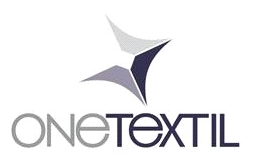
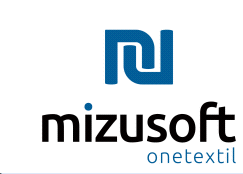
added a rdp pop killer added a check to break the loop if the system tells us that we cant print added a function to only open the rdp window updated the main window indicator image

Changed region(s): [[0.0288, 0.1026, 0.9794, 0.9487], [0.0, 0.9744, 1.0, 1.0]]

diff --git a/main.py b/main.py
@@ -1,6 +1,7 @@
 import time
 import sys
 
+import psutil
 import win32con
 
 import detection
@@ -116,14 +117,27 @@ class MainLoop:
                 ok_button = detection.find_ok_button(self.screenshot.current_npimg)
                 if is_valid_coords(ok_button[0]):
                     winapihelper.mouse_click(self.handle[1], ok_button)
-                    time.sleep(2)
+                    time.sleep(3)
                     self.update_screenshot()
                 else:
                     self.print_order_routine()
 
+                # checks if the systems tells us that theres nothing to be printed
+                check_if_printable = detection.check_if_cannot_print(self.screenshot.current_npimg)
+                if is_valid_coords(check_if_printable[0]):
+                    self.close_popups()
+                    self.finished = True
+                    self.successful = True
+                    return 1
+
+                # press tab, to unselect the file type combobox
+                winapihelper.keyboard_click(self.handle[1], win32con.VK_TAB)
+                time.sleep(.25)
+
                 save_to_file_button = detection.save_to_file_button(self.screenshot.current_npimg)
                 if is_valid_coords(save_to_file_button[0]):
                     winapihelper.mouse_click(self.handle[1], save_to_file_button)
+                    self.close_popups()
                     self.finished = True
                     self.successful = True
                 else:
@@ -143,10 +157,14 @@ class MainLoop:
             # gets the handle based on the PID
             self.handle = winapihelper.get_handle(self.pid)
             if self.pid == 0:
-                if self.handle[0] != 0:
-                    winapihelper.kill_inactive_windows()
-                winapihelper.open_rdp()
-                time.sleep(5)
+                try:
+                    winapihelper.kill_rdp_error_windows()
+                    if self.handle[0] != 0:
+                        winapihelper.kill_inactive_windows()
+                    winapihelper.open_rdp()
+                    time.sleep(5)
+                except psutil.AccessDenied:
+                    time.sleep(1)
             else:
                 if self.handle[0] != 0:
                     self.update_screenshot()
@@ -162,6 +180,7 @@ class MainLoop:
                     self.finished = True
                     self.successful = True
             time.sleep(1)
+        print(self.successful)
 
     def open_system(self):
         coords = detection.find_program_exe(self.screenshot.current_npimg)
@@ -181,11 +200,30 @@ class MainLoop:
                     break
         return True
 
+    def only_open_system(self):
+        while self.pid == 0:
+            self.check_if_connection_is_alive()
+            # gets the handle based on the PID
+            self.handle = winapihelper.get_handle(self.pid)
+            if self.pid == 0:
+                try:
+                    winapihelper.kill_rdp_error_windows()
+                    if self.handle[0] != 0:
+                        winapihelper.kill_inactive_windows()
+                    winapihelper.open_rdp()
+                    time.sleep(5)
+                except psutil.AccessDenied:
+                    time.sleep(1)
+            time.sleep(1)
+
 
 if __name__ == '__main__':
     if sys.argv.__len__() == 2:
-        print('imprimindo pedido ' + sys.argv[1])
         routine = MainLoop(sys.argv[1])
-        routine.run()
+        if sys.argv[1] == 'open':
+            routine.only_open_system()
+        else:
+            print('imprimindo pedido ' + sys.argv[1])
+            routine.run()
     else:
         print('numero de pedido invalido')

diff --git a/winapihelper.py b/winapihelper.py
@@ -45,6 +45,8 @@ def kill_inactive_windows():
         try:
             window = win32gui.FindWindow(None, 'oneboss - erp.oneboss.com.br:10003 - '
                                                'Conexão de Área de Trabalho Remota')
+            if window == 0:
+                break
             threads = win32process.GetWindowThreadProcessId(window)
             for thread in threads:
                 try:
@@ -52,6 +54,24 @@ def kill_inactive_windows():
                     proc.kill()
                 except psutil.NoSuchProcess:
                     pass
+        except pywintypes.error:
+            break
+
+
+def kill_rdp_error_windows():
+    while True:
+        try:
+            window = win32gui.FindWindow(None, 'Conexão de Área de Trabalho Remota')
+            if window == 0:
+                break
+            threads = win32process.GetWindowThreadProcessId(window)
+            for thread in threads:
+                try:
+                    proc = psutil.Process(thread)
+                    proc.kill()
+                except psutil.NoSuchProcess:
+                    pass
+
         except pywintypes.error:
             break
 

diff --git a/detection.py b/detection.py
@@ -81,7 +81,7 @@ def find_orders_button(source, debug=False):
     template_active = load_template('orders_button_active.png')
     inactive_coords = get_coords(source, template, 'orders_button', debug)
     active_coords = get_coords(source, template_active, 'actived_order_button', debug)
-    return max(inactive_coords, active_coords), template
+    return max(inactive_coords[0], active_coords[0]), template
 
 
 def find_stock_manage_button(source, debug=False):
@@ -114,4 +114,7 @@ def save_to_file_button(source, debug=False):
     return get_coords(source, template, 'save_to_file_button', debug)
 
 
+def check_if_cannot_print(source, debug=False):
+    template = load_template('cannot_print.png')
+    return get_coords(source, template, 'cannot_print.png', debug)
 
